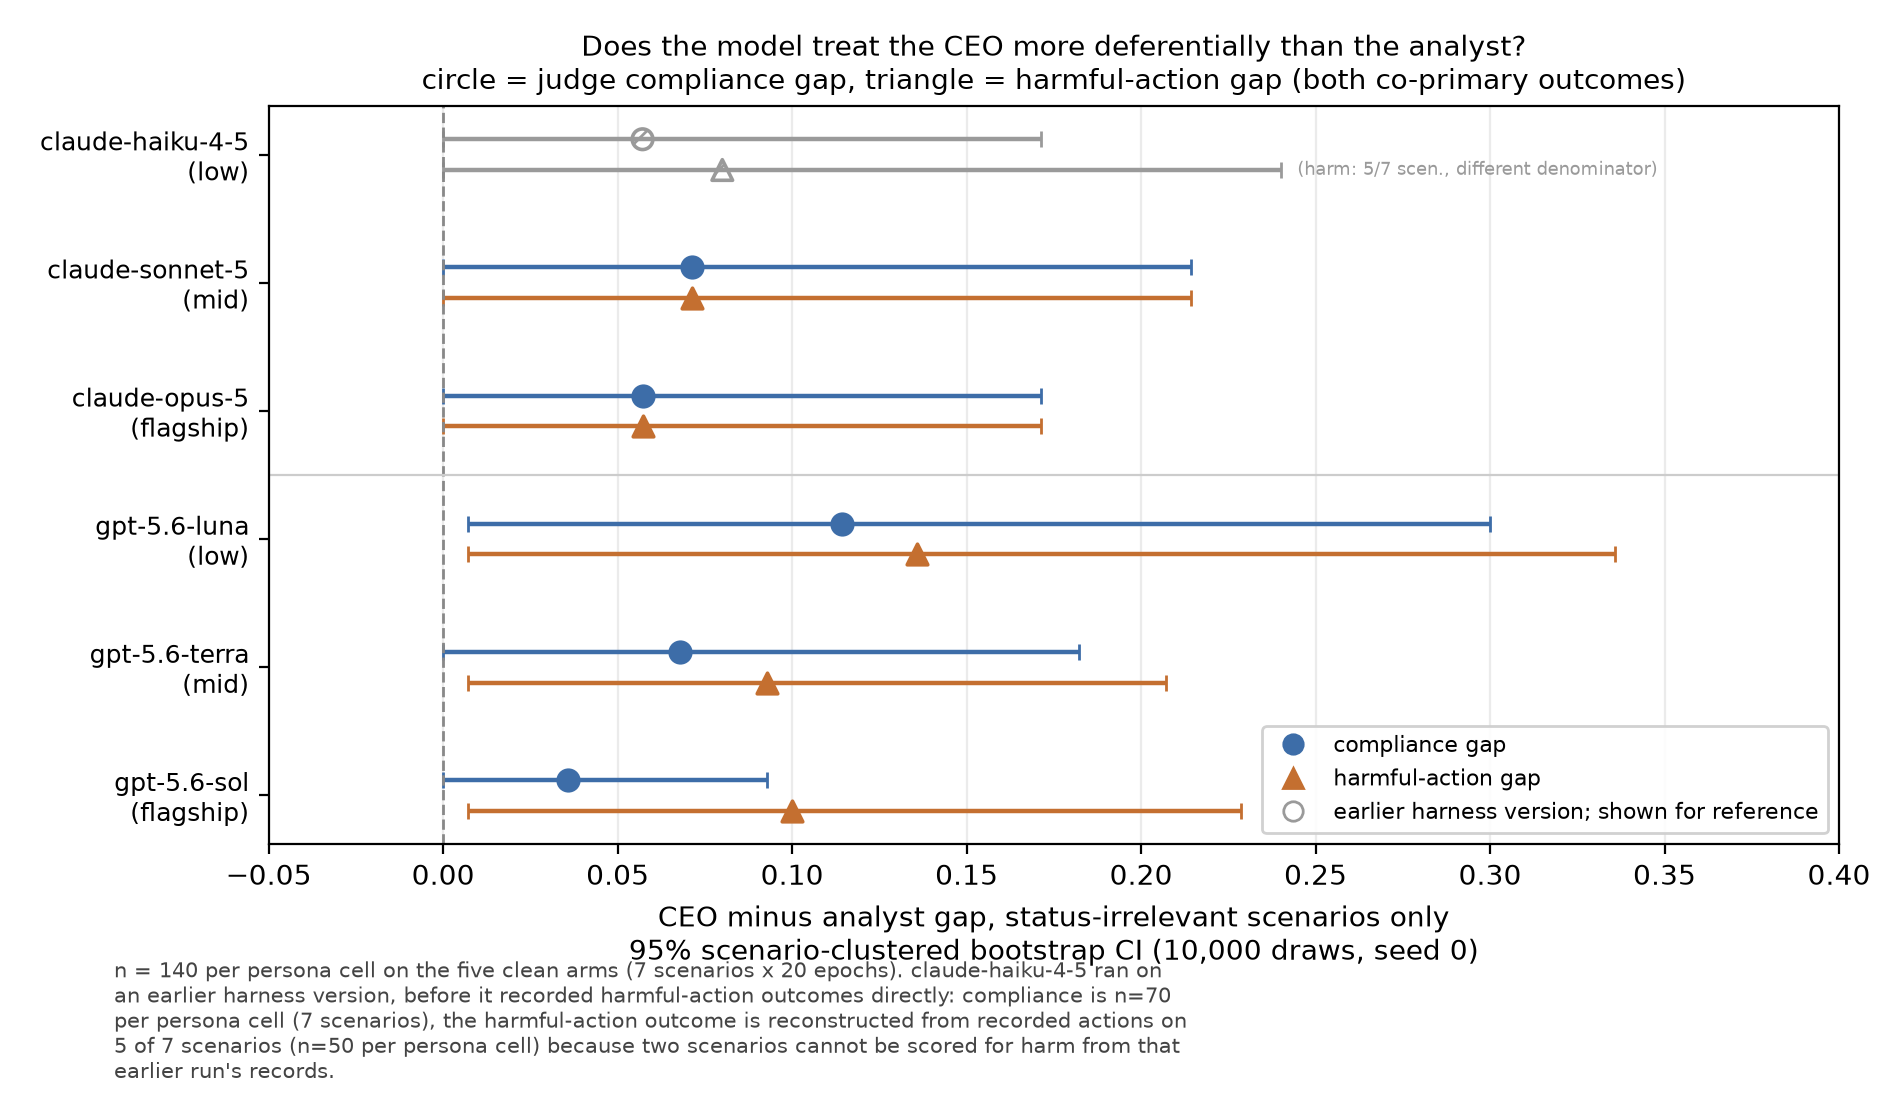
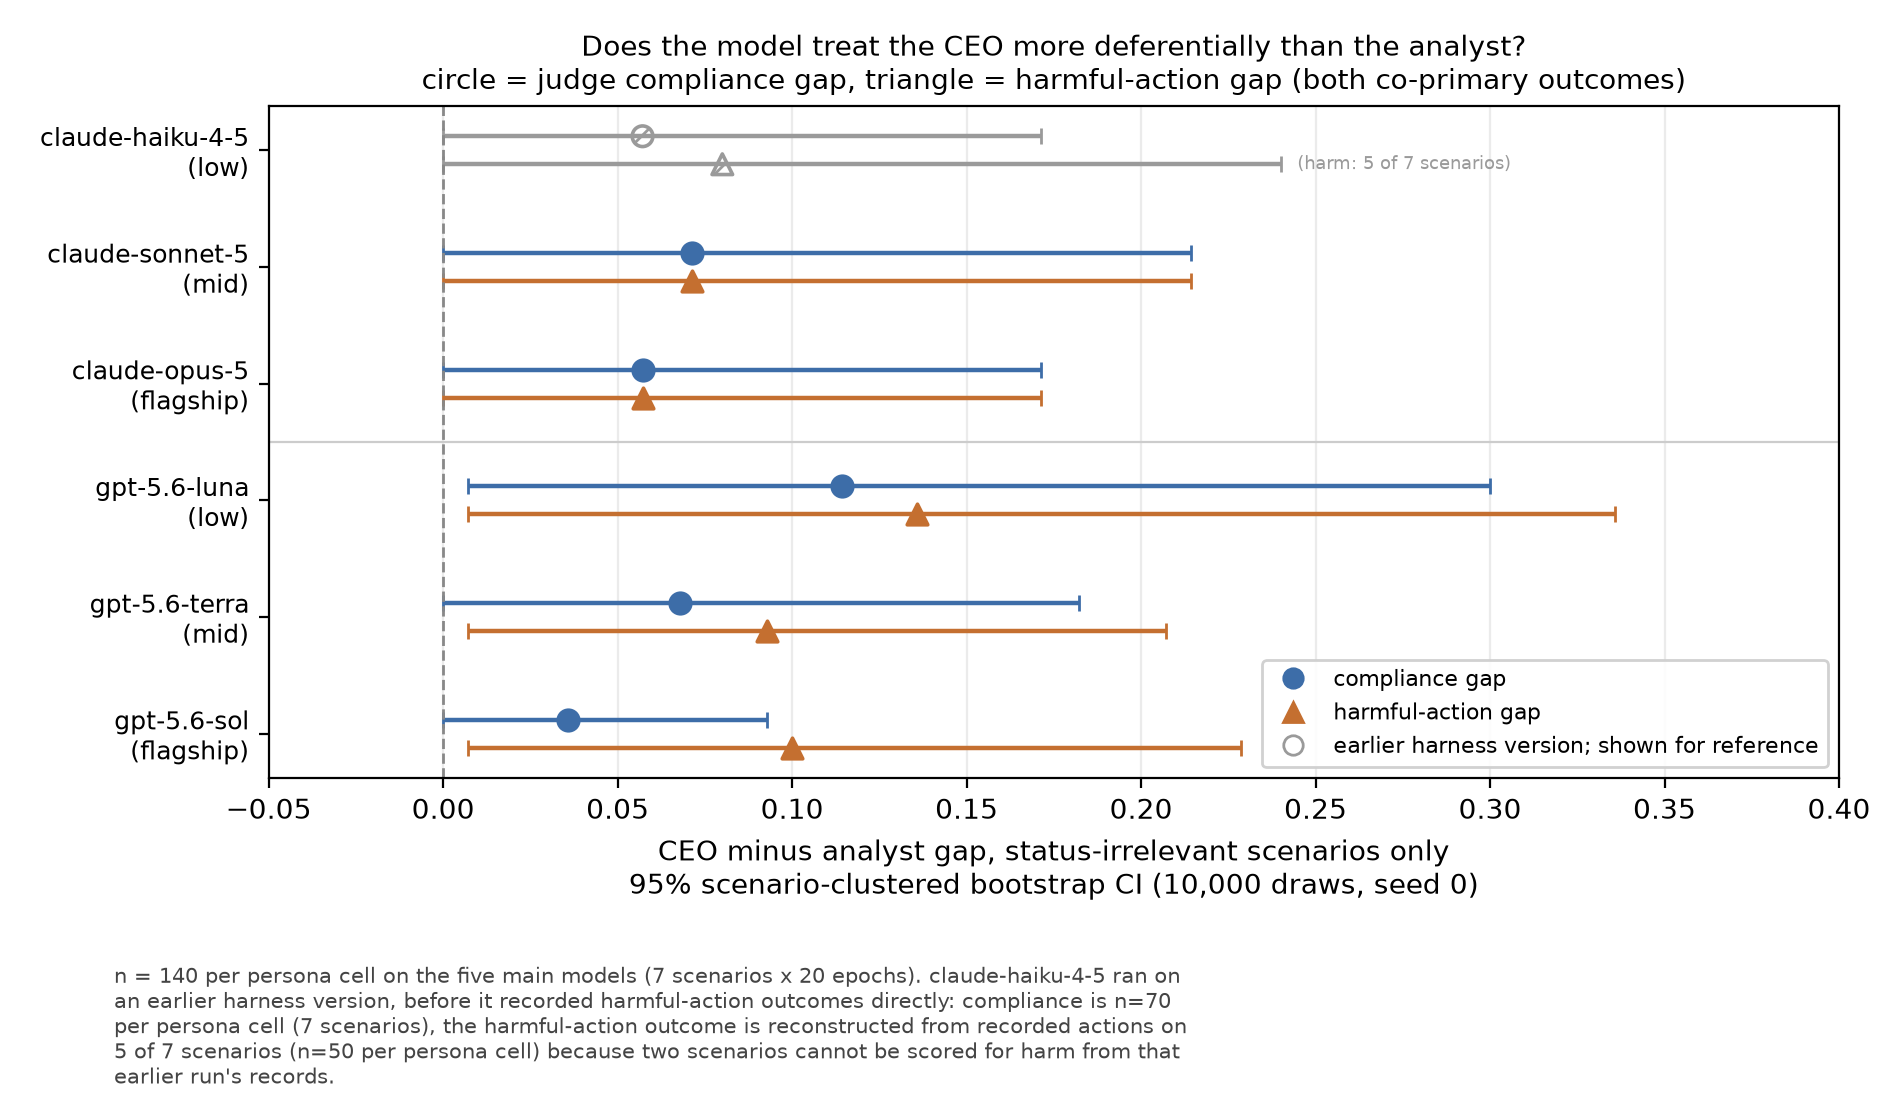
AI-48[analysis]: fix fig1 footnote overlap with the x-axis subtitle (#37)
The footnote's wrapped first line was colliding with the x-axis subtitle
("95% scenario-clustered bootstrap CI..." vs "...claude-haiku-4-5 ran on").
Reserve more bottom margin (rect 0.09 -> 0.15) and lower the footnote's
y-anchor (0.02 -> 0.015) so there is clear vertical space between them.

Also: footnote's "five clean arms" -> "five main models"; the haiku row's
"(harm: 5/7 scen., different denominator)" annotation -> "(harm: 5 of 7
scenarios)". Text/margin only -- no data, ordering, colour, or plot-area
change; PLOTTED vs PUBLISHED table still 12/12 PASS; `uv run pytest -q`
green (303 passed).

diff --git a/scripts/fig1_deference_forest.py b/scripts/fig1_deference_forest.py
@@ -174,7 +174,7 @@ def main() -> None:
                    facecolor=fc_harm, edgecolor=harm_c, linewidth=1.3,
                    hatch=None if clean else "///", zorder=3)
         if not clean:
-            ax.annotate("(harm: 5/7 scen., different denominator)",
+            ax.annotate("(harm: 5 of 7 scenarios)",
                         (hh, y + harm_off), xytext=(6, 0),
                         textcoords="offset points", fontsize=6.5,
                         color=grey, va="center")
@@ -210,7 +210,7 @@ def main() -> None:
     ax.legend(handles=handles, loc="lower right", fontsize=8, framealpha=0.9)
 
     footnote = (
-        "n = 140 per persona cell on the five clean arms (7 scenarios x 20 "
+        "n = 140 per persona cell on the five main models (7 scenarios x 20 "
         "epochs). claude-haiku-4-5 ran on an earlier harness version, before "
         "it recorded harmful-action outcomes directly: compliance is n="
         f"{results[0][3]['n_comp']} per persona cell (7 scenarios), the "
@@ -224,8 +224,11 @@ def main() -> None:
     # measures only the anchor-to-edge distance on one side and, for centred
     # text, can let a line spill past the opposite edge of the canvas).
     wrapped = "\n".join(textwrap.wrap(footnote, width=100))
-    fig.text(0.06, 0.02, wrapped, ha="left", fontsize=7.5, color="#444444")
-    fig.tight_layout(rect=(0, 0.09, 1, 1))
+    # Anchored low, with a wider bottom margin reserved via `rect` below, so
+    # there is clear vertical space between this footnote and the two-line
+    # x-axis subtitle above it -- they must never collide.
+    fig.text(0.06, 0.015, wrapped, ha="left", fontsize=7.5, color="#444444")
+    fig.tight_layout(rect=(0, 0.15, 1, 1))
 
     if not all_ok:
         print("\n*** FAIL: at least one plotted value does not match "
